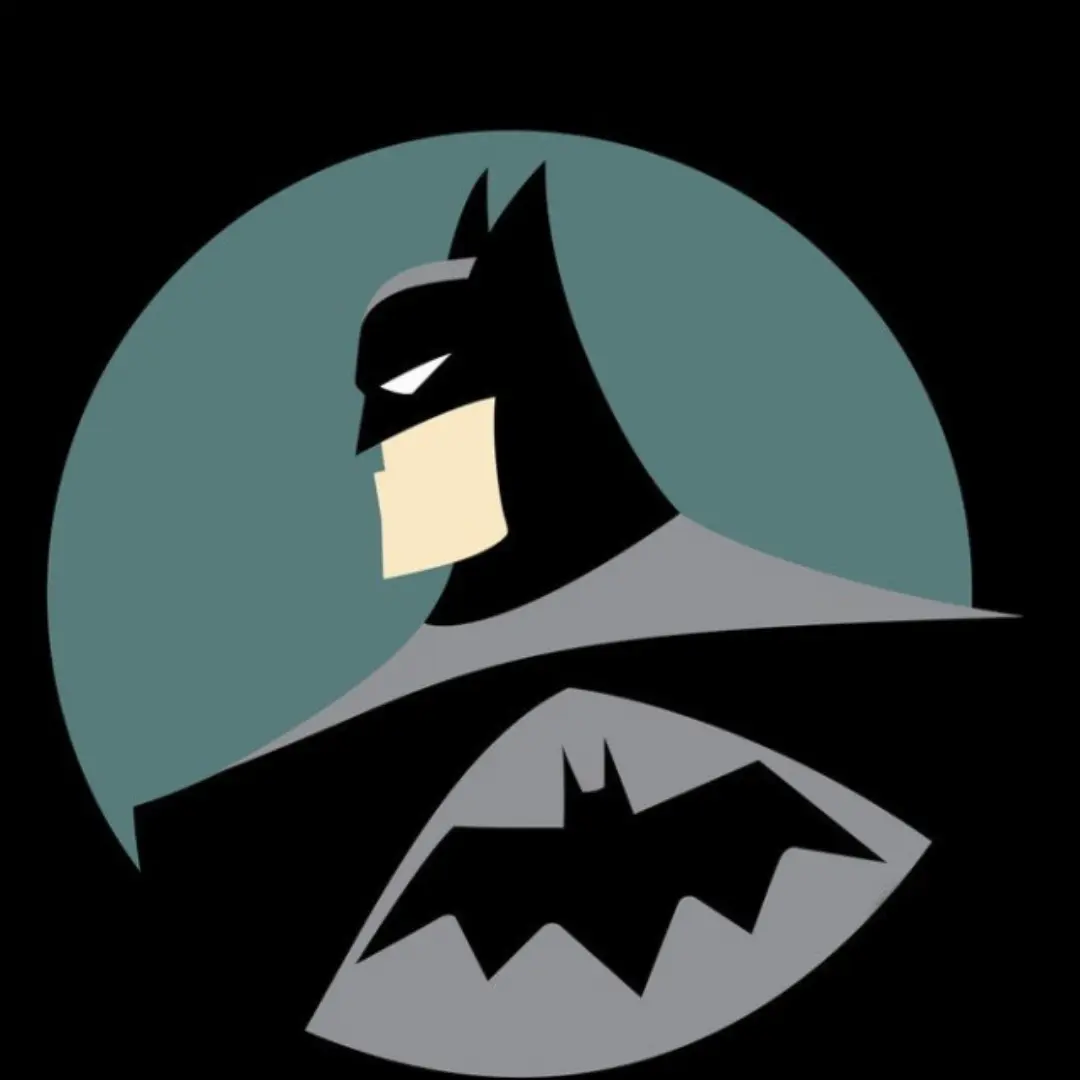
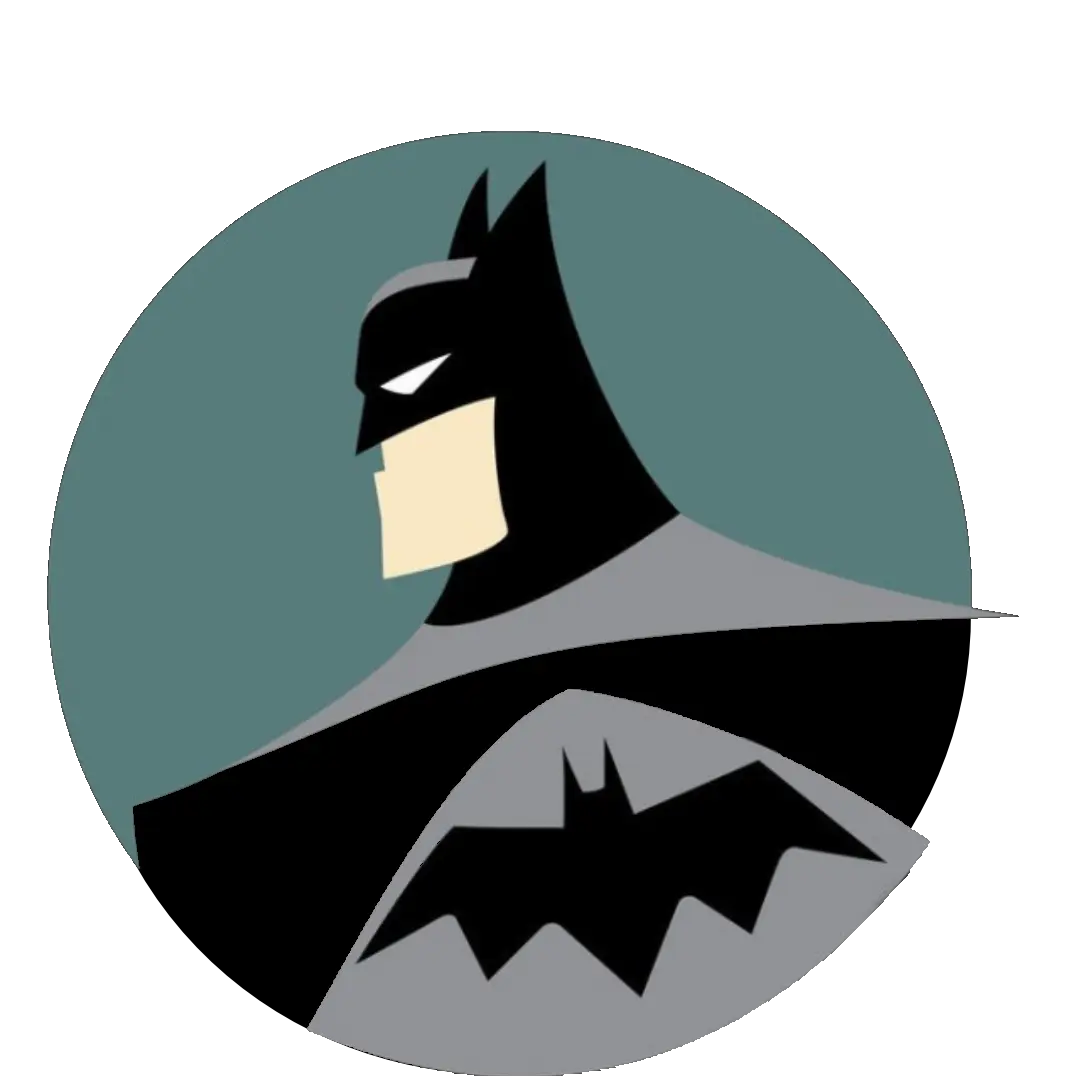
Make profile pics trasparent and change dark mode bg color

diff --git a/pages/experience.jsx b/pages/experience.jsx
@@ -31,7 +31,7 @@ export default function Experience() {
 
         <div className={styles.grid}>
           <div className={styles.card}>
-            <h2>Full Stack Engineer - 100 Devs &darr;</h2>
+            <h2>Full Stack Engineer - 100 Devs</h2>
             <p><li>Collaborated with a team of developers to build modern, responsive web applications using best practices </li>
             <li>Developed semantically structured full-stack web applications consisting of RESTful APIs serving data to a JavaScript front-end</li>
               <li>Reviewed code and utilized unit testing, pair programming, and agile methodologies like SCRUM to guarantee quality code</li>
@@ -39,14 +39,14 @@ export default function Experience() {
           </div>
 
           <div className={styles.card}>
-            <h2>Digital Marketing Specialist - Furlough &darr;</h2>
+            <h2>Digital Marketing Specialist - Furlough</h2>
             <p><li>Lead an SEO marketing campaign for the discord community to grow its size by 300%</li>
               <li>Managed the blog content and youtube videos for optimum exposure</li>
             </p>
           </div>
 
           <div className={styles.card}>
-            <h2>Digital Marketing Specialist - Denxa &darr;</h2>
+            <h2>Digital Marketing Specialist - Denxa</h2>
             <p><li>Designed Instagram and Telegram growth strategy and content marketing plan</li>
             <li>Managed and nurtured Telegram community</li>
             </p>
@@ -61,7 +61,7 @@ export default function Experience() {
           </div>
 
           <div className={styles.card}>
-            <h2>Content Writer - Rekab &darr;</h2>
+            <h2>Content Writer - Rekab</h2>
             <p><li>Wrote daily articles for the blog</li>
             <li>Generated copies for different ad campaigns</li>
             </p>

diff --git a/pages/technologies.jsx b/pages/technologies.jsx
@@ -13,6 +13,7 @@ export default function Technologies() {
       <Head>
         <title>Sajad&apos;s Tech Stack</title>
       </Head>
+
       <main className={styles.main}>
       <Link href="/">
       <a><span className={styles.backArrow}>&larr;</span></a>
@@ -32,35 +33,35 @@ export default function Technologies() {
         <div className={styles.grid}>
           
           <div className={styles.card}>
-            <h2>Front End Techs &darr;</h2>
-            <p><li>HTML5</li>
+            <h2>Front End Techs</h2>
+            <ul><li>HTML5</li>
             <li>CSS3</li>
               <li>JavaScript</li>
               <li>React.js / Hooks / Context</li>
               <li>Next.js</li>
               <li>MaterialUI</li>
               <li>TailwindCSS</li>
-            </p>
+            </ul>
           </div>
 
           <div className={styles.card}>
-            <h2>Back End Techs &darr;</h2>
-            <p><li>Node.js</li>
+            <h2>Back End Techs</h2>
+            <ul><li>Node.js</li>
               <li>Express.js</li>
               <li>GraphQL</li>
               <li>RestAPI</li>
               <li>Nest.js</li>
               <li>MongoDB</li>
               <li>TypeScript</li>
-            </p>
+            </ul>
           </div>
 
           <div className={styles.card}>
-            <h2>Others &darr;</h2>
-            <p><li>Git</li>
+            <h2>Others</h2>
+            <ul><li>Git</li>
             <li>Jest</li>
               <li>NPM</li>
-            </p>
+            </ul>
           </div>
           
         </div>

diff --git a/pages/bio.jsx b/pages/bio.jsx
@@ -32,7 +32,7 @@ export default function Bio() {
 
         <div className={styles.grid}>
           <div className={styles.card}>
-            <h2>Education &darr;</h2>
+            <h2>Education</h2>
             <p><li>Sampad High School </li>
             <li>Bu-ali Sina University (Eng.)</li>
               <li>K.N Toosi University (Eng.)</li>
@@ -40,7 +40,7 @@ export default function Bio() {
           </div>
 
           <div className={styles.card}>
-            <h2>Coding Education &darr;</h2>
+            <h2>Coding Education</h2>
             <p><li>LinkedIn Learning</li>
               <li>The Odin Project Boot Camp</li>
               <li>100 Devs</li>
@@ -48,7 +48,7 @@ export default function Bio() {
           </div>
 
           <div className={styles.card}>
-            <h2>Hobbies &darr;</h2>
+            <h2>Hobbies</h2>
             <p><li>Building Web Apps</li>
             <li>Networking</li>
               <li>Learning new Techs</li>
@@ -57,7 +57,7 @@ export default function Bio() {
           </div>
 
            <div className={styles.card}>
-            <h2>Fun Facts &darr;</h2>
+            <h2>Fun Facts</h2>
             <p><li>Harry Potter {theme === 'light' ? '' : 'is my'} fan</li>
             <li>Love {theme === 'light' ? 'helping people' : 'catching criminals'}</li>
               <li>OCD/ADHD pal</li>

diff --git a/theme/Theme.js b/theme/Theme.js
@@ -15,7 +15,7 @@ export default function Theme({ children }) {
   return (
     <ThemeContext.Provider value={[theme]}>
 
-    <div className={styles.container} style={{backgroundColor: theme === 'light' ? 'white' : 'black'}}>
+    <div className={styles.container} style={{backgroundColor: theme === 'light' ? 'white' : '#0F1425'}}>
     <div className={styles.content}>
       <picture>
         <img src={theme === 'light' ? "/light-mode-black.webp" : "/light-mode-color.webp"} alt='sun icon'/>
@@ -29,7 +29,7 @@ export default function Theme({ children }) {
         <img src={theme === 'light' ? "/night-mode-black.webp" : "/night-mode-color.webp"} alt='moon icon'/>
         </picture>
     </div>
-      <main style={{backgroundColor: theme === 'light' ? 'white' : 'black', color: theme === 'light' ? 'black' : 'white', transition: '0.2s'}}>{children}</main>
+      <main style={{backgroundColor: theme === 'light' ? 'white' : '#0F1425', color: theme === 'light' ? 'black' : 'white', transition: '0.2s'}}>{children}</main>
     </div>
     </ThemeContext.Provider>
   )

diff --git a/pages/_document.jsx b/pages/_document.jsx
@@ -5,7 +5,6 @@ export default function MyDocument () {
     <Html lang="en">
       <Head>
         <meta charSet="utf-8" />
-        <meta name="viewport" content="width=device-width, initial-scale=1" />
         <meta name="description" content="Sajad Mahyaei" />
         <meta name="keywords" content="Sajad, Mahyaei, Sajad Mahyaei, sajadmahyaei, sajadmahyaei.com, sajadmahyaei.net, sajadmahyaei.me, sajadmahyaei.org, sajadmahyaei.io, sajadmahyaei.dev, sajadmahyaei.xyz, sajadmahyaei.me" />
         <meta name="author" content="Sajad Mahyaei" />

diff --git a/styles/Custom404.module.css b/styles/Custom404.module.css
@@ -6,3 +6,16 @@
     justify-content: center;
     align-items: center;
 }
+
+.backBtn {
+    color: #0070f3;
+    text-decoration: none;
+    display: flex;
+    text-align: center;
+}
+
+.backBtn a:hover,
+.backBtn a:focus,
+.backBtn a:active {
+  text-decoration: underline;
+}

diff --git a/styles/Bio.module.css b/styles/Bio.module.css
@@ -76,6 +76,7 @@
 
 .card li {
   margin: 1rem 0;
+  font-size: 1.25rem;
 }
 
 @media (max-width: 700px) {
